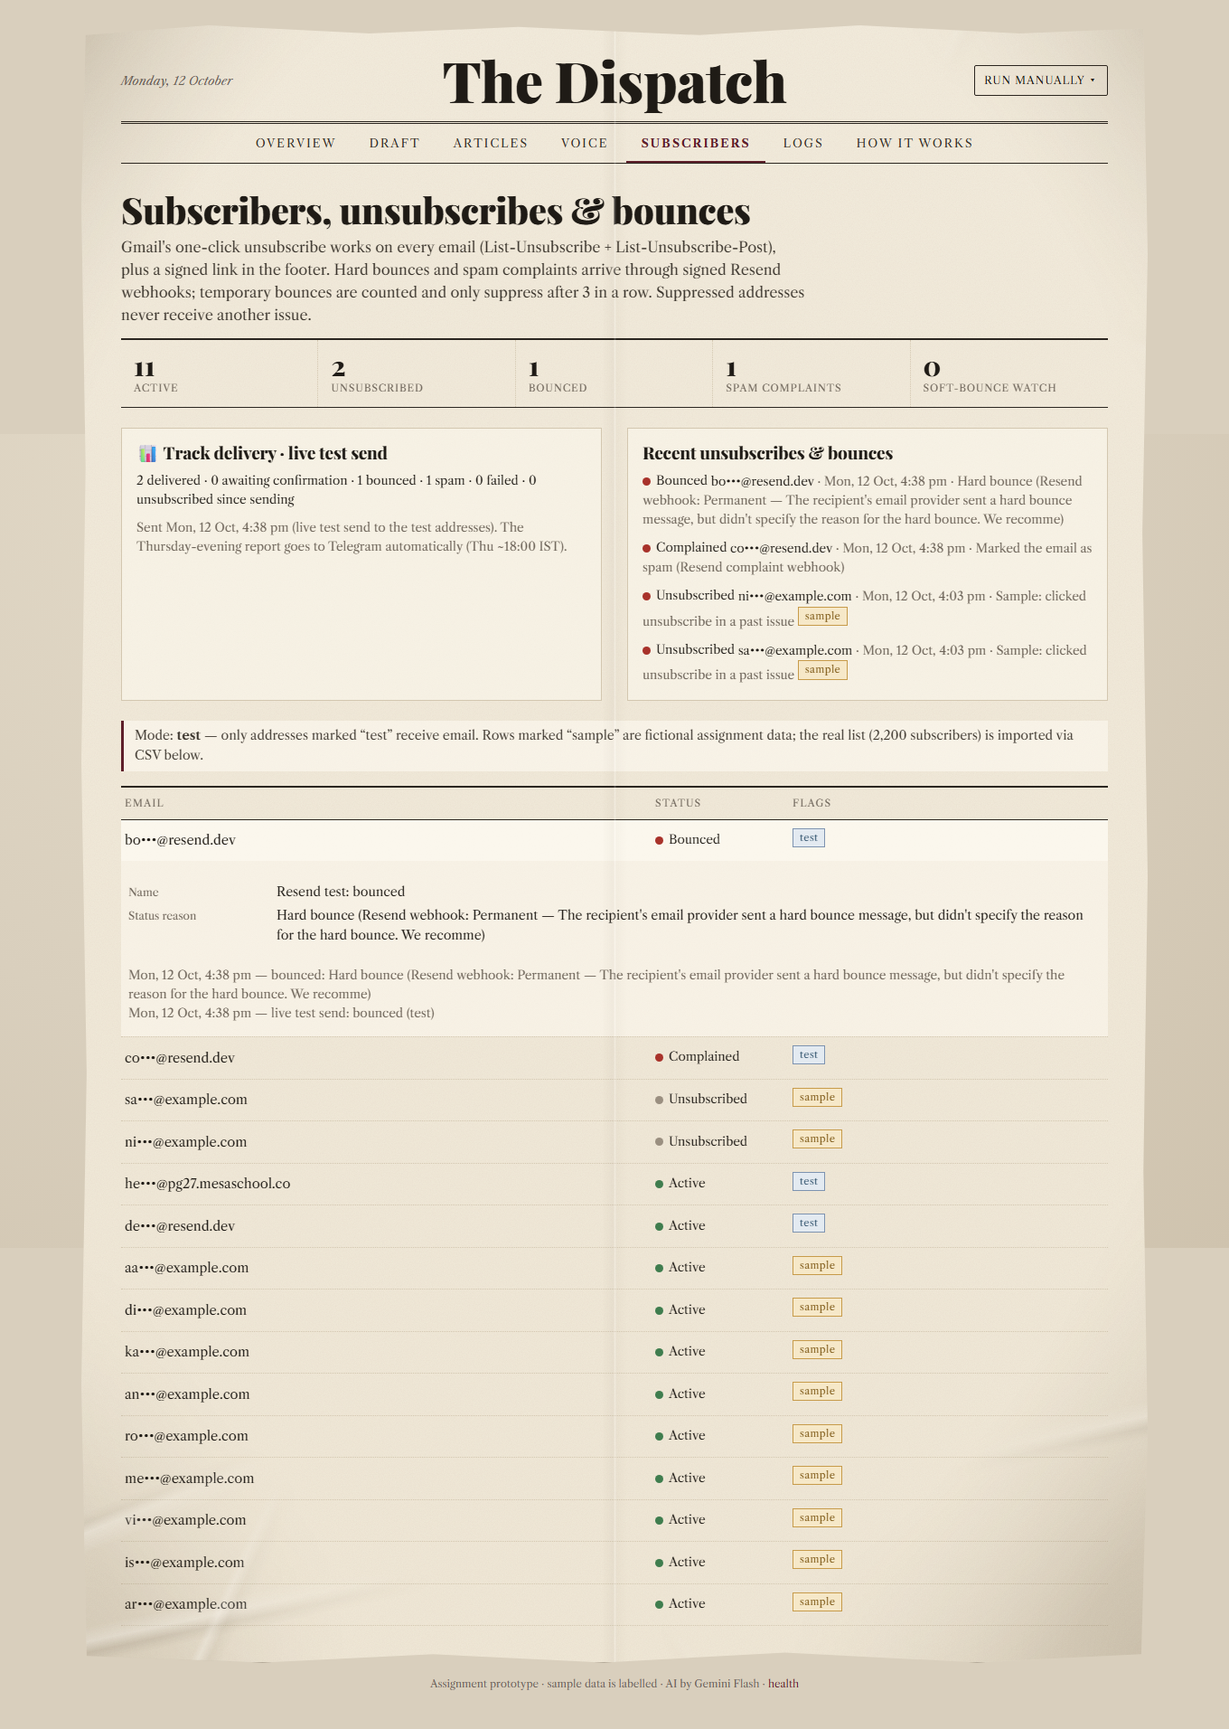
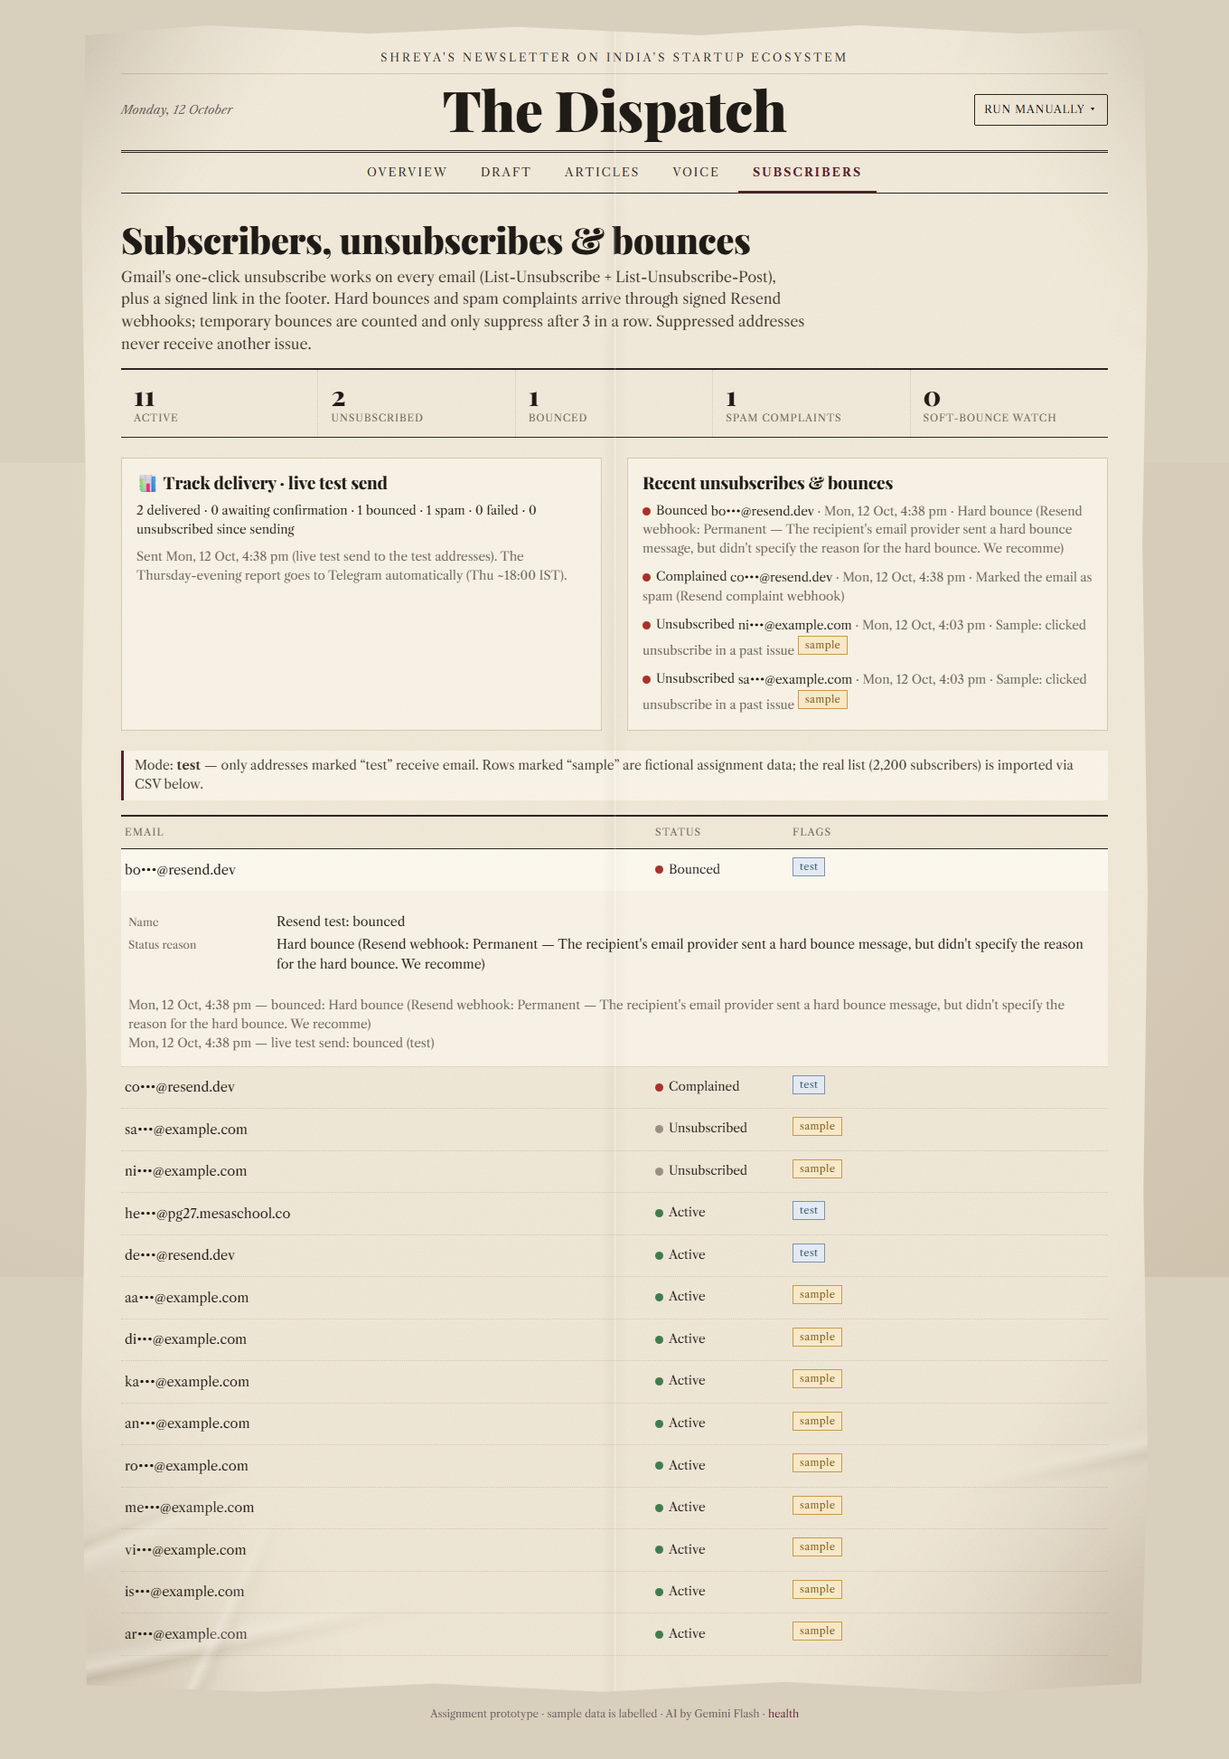
Add masthead strap; remove Logs and How it works pages; phone collage grid

Changed region(s): [[0.0926, 0.0309, 0.8956, 0.9566], [0.4632, 0.5246, 0.8647, 0.9566], [0.7412, 0.1851, 0.8647, 0.2469]]

diff --git a/app/page.tsx b/app/page.tsx
@@ -13,7 +13,7 @@ export const dynamic = "force-dynamic";
 type SP = { p?: string; msg?: string; err?: string; atopic?: string; astatus?: string; login?: string; run?: string };
 type D = Awaited<ReturnType<typeof loadDashboard>>;
 
-const PAGES = ["overview", "draft", "articles", "voice", "subscribers", "logs", "how"] as const;
+const PAGES = ["overview", "draft", "articles", "voice", "subscribers"] as const;
 
 export default async function Dashboard({ searchParams }: { searchParams: Promise<SP> }) {
   const sp = await searchParams;
@@ -27,12 +27,10 @@ export default async function Dashboard({ searchParams }: { searchParams: Promis
     { id: "articles", label: "Articles" },
     { id: "voice", label: "Voice" },
     { id: "subscribers", label: "Subscribers" },
-    { id: "logs", label: "Logs" },
-    { id: "how", label: "How it works" },
   ];
   const notice = (
     <>
-      {sp.msg && <div className={`flash${sp.err ? " err" : ""}`}>{sp.msg}{sp.run && <> · <a href={`/?p=logs#run-${sp.run}`}>see the run log</a></>}</div>}
+      {sp.msg && <div className={`flash${sp.err ? " err" : ""}`}>{sp.msg}</div>}
       {sp.login === "failed" && <div className="flash err">Wrong admin password.</div>}
       {sp.login === "required" && <div className="flash err">Log in from “Run manually” to make changes.</div>}
     </>
@@ -49,8 +47,6 @@ export default async function Dashboard({ searchParams }: { searchParams: Promis
             {page === "articles" && <ArticlesPage d={d} sp={sp} />}
             {page === "voice" && <VoicePage d={d} admin={admin} />}
             {page === "subscribers" && <SubscribersPage d={d} admin={admin} />}
-            {page === "logs" && <LogsPage d={d} sp={sp} />}
-            {page === "how" && <HowPage />}
           </Paper>
         </div>
       </article>
@@ -63,6 +59,7 @@ export default async function Dashboard({ searchParams }: { searchParams: Promis
 function Masthead({ d, admin, login }: { d: D; admin: boolean; login?: string }) {
   return (
     <header className="masthead">
+      <span className="strap">Shreya's newsletter on India's startup ecosystem</span>
       <span className="dateline">{formatIst(d.at, { weekday: "long", day: "numeric", month: "long", hour: undefined, minute: undefined })}</span>
       <a className="title" href="/" data-page="overview">The Dispatch</a>
       <div className="right"><RunMenu admin={admin} login={login} /></div>
@@ -508,57 +505,6 @@ function SubscribersPage({ d, admin }: { d: D; admin: boolean }) {
 }
 
 // ---------------------------------------------------------------------------
-// Page 6 — logs, Page 7 — how it works
-// ---------------------------------------------------------------------------
-function LogsPage({ d, sp }: { d: D; sp: SP }) {
-  const last = d.runs[0];
-  return (
-    <>
-      <section className="page-head"><div>
-        <h1>Workflow logs</h1>
-        <p className="lede">{last ? `Last run: ${cap(last.job.replace(/_/g, " "))} ${last.status === "failed" ? "failed" : last.status === "skipped" ? "skipped" : "succeeded"} ${ago(last.started_at, d.at)}` : "No runs yet"} · {d.failuresThisWeek} failure{d.failuresThisWeek === 1 ? "" : "s"} this week. Every cron, manual and simulated run is recorded.</p>
-      </div></section>
-      <div className="rows">
-        <div className="head g-runs"><span>Job</span><span>Time</span><span>Trigger</span><span>Result</span></div>
-        {d.runs.map((r) => (
-          <details className="row" key={r.id} id={`run-${r.id}`} open={sp.run === String(r.id)}>
-            <summary className="g-runs">
-              <Status dot={r.status === "failed" ? "red" : r.status === "skipped" ? "grey" : r.status ? "green" : "blue"} text={cap(r.job.replace(/_/g, " "))} />
-              <span className="muted small">{formatIst(r.started_at)}</span>
-              <span className="muted small">{r.trigger}{r.simulated_now ? " · sim" : ""}</span>
-              <span className="small cell-title">{r.summary ?? "Running…"}</span>
-            </summary>
-            <div className="detail">
-              <dl className="kv">
-                <dt>Result</dt><dd>{r.status ?? "running"} — {r.summary}</dd>
-                <dt>Started → finished</dt><dd>{formatIst(r.started_at, { second: "2-digit" })} → {formatIst(r.finished_at, { second: "2-digit" })}</dd>
-                {r.simulated_now && <><dt>Simulated time</dt><dd>{formatIst(r.simulated_now)} IST</dd></>}
-              </dl>
-              {r.details && <pre className="json">{JSON.stringify(r.details, null, 2)}</pre>}
-            </div>
-          </details>
-        ))}
-      </div>
-    </>
-  );
-}
-
-function HowPage() {
-  return (
-    <>
-      <section className="page-head"><div>
-        <h1>How it works</h1>
-        <p className="lede">Vercel Cron (UTC) → IST: ingest <span className="mono">{SCHEDULE.ingest.cron}</span> = {SCHEDULE.ingest.when} · draft <span className="mono">{SCHEDULE.draft.cron}</span> = {SCHEDULE.draft.when} · reminder <span className="mono">{SCHEDULE.reminder.cron}</span> = {SCHEDULE.reminder.when} · send <span className="mono">{SCHEDULE.send.cron}</span> = {SCHEDULE.send.when} · report <span className="mono">{SCHEDULE.report.cron}</span> = {SCHEDULE.report.when}.</p>
-      </div></section>
-      <section className="columns">
-        <div><h3 style={{ marginBottom: 10 }}>Components map</h3><img className="diagram" src="/diagrams/components-map.svg" alt="Components map: GitHub, Vercel, Cron, RSS/GNews, Neon, Gemini Flash, Telegram, Resend, subscribers, dashboard" /></div>
-        <div><h3 style={{ marginBottom: 10 }}>Weekly flowchart</h3><img className="diagram" src="/diagrams/workflow-flowchart.svg" alt="Weekly workflow flowchart with decision points" /></div>
-      </section>
-    </>
-  );
-}
-
-// ---------------------------------------------------------------------------
 function RunMenu({ admin, login }: { admin: boolean; login?: string }) {
   return (
     <details className="menu" open={login === "failed" || login === "required" ? true : undefined}>
@@ -633,14 +579,6 @@ function eventDot(e: string): Dot {
   if (["skipped", "rejected", "send_failed"].includes(e)) return "red";
   if (["approval_revoked", "reminder_sent", "insufficient_stories"].includes(e)) return "amber";
   return "blue";
-}
-
-function ago(t: string, at: Date) {
-  const m = Math.round((at.getTime() - new Date(t).getTime()) / 60000);
-  if (m < 1) return "just now";
-  if (m < 60) return `${m} min ago`;
-  if (m < 48 * 60) return `${Math.round(m / 60)} h ago`;
-  return `${Math.round(m / 1440)} days ago`;
 }
 
 /** Tiny markdown renderer for the voice guide (headings, lists, quotes, bold/italic). */

diff --git a/app/globals.css b/app/globals.css
@@ -81,7 +81,11 @@ img { max-width: 100%; }
 .sheet-inner { position: relative; z-index: 1; padding: 26px 44px 40px; }
 
 /* ---------------- Masthead + top navigation ---------------- */
-.masthead { display: grid; grid-template-columns: 1fr auto 1fr; align-items: center; gap: 16px; padding: 4px 0 14px; }
+.masthead { display: grid; grid-template-columns: 1fr auto 1fr; grid-template-areas: "strap strap strap" "date title menu"; align-items: center; gap: 4px 16px; padding: 0 0 14px; }
+.masthead .strap { grid-area: strap; text-align: center; font-size: 12.5px; letter-spacing: .22em; text-transform: uppercase; color: var(--ink-2); padding: 0 0 8px; margin-bottom: 4px; border-bottom: 1px solid var(--line); }
+.masthead .dateline { grid-area: date; }
+.masthead .title { grid-area: title; }
+.masthead .right { grid-area: menu; }
 .masthead .dateline { font-size: 13px; color: var(--muted); font-style: italic; }
 .masthead .title { font-family: var(--display); font-weight: 900; font-size: 62px; line-height: 1; letter-spacing: -0.01em; color: var(--ink); text-align: center; white-space: nowrap; }
 .masthead .title:hover { text-decoration: none; }
@@ -157,6 +161,7 @@ a.card:hover { text-decoration: none; background: rgba(255,252,244,.5); }
   transition: transform .55s cubic-bezier(.6,.05,.4,1), opacity .45s ease, left .55s cubic-bezier(.6,.05,.4,1), top .55s cubic-bezier(.6,.05,.4,1);
   clip-path: polygon(0 2%, 8% 0, 22% 1.5%, 40% 0, 63% 1.2%, 82% 0, 100% 1.5%, 99% 30%, 100% 62%, 98.8% 100%, 75% 98.6%, 50% 100%, 24% 98.8%, 0 100%, 1.2% 66%, 0 33%);
 }
+.tile { margin: 0; }
 .tile.small { width: 14.5%; }
 .tile img { width: 100%; height: 100%; object-fit: cover; display: block; filter: sepia(.25) contrast(1.05); }
 .tile .cap { position: absolute; left: 0; right: 0; bottom: 3px; text-align: center; font-family: var(--label); font-size: 10px; letter-spacing: .02em; text-transform: uppercase; color: var(--ink-2); white-space: nowrap; overflow: hidden; text-overflow: ellipsis; padding: 0 4px; }
@@ -310,7 +315,8 @@ iframe.preview { width: 100%; height: 720px; border: 1px solid var(--line); back
   .sheet { clip-path: none; }
   .sheet::after { display: none; }
   .sheet-inner { padding: 18px 16px 28px; }
-  .masthead { grid-template-columns: minmax(0, 1fr) auto; gap: 10px; }
+  .masthead { grid-template-columns: minmax(0, 1fr) auto; grid-template-areas: "strap strap" "title menu"; gap: 4px 10px; }
+  .masthead .strap { font-size: 10.5px; letter-spacing: .12em; }
   .masthead .dateline { display: none; }
   .masthead .title { text-align: left; font-size: 29px; }
   .menu > summary { padding: 6px 8px; font-size: 11px; }
@@ -324,9 +330,13 @@ iframe.preview { width: 100%; height: 720px; border: 1px solid var(--line); back
   .card { padding: 12px 10px; }
   .card:nth-child(3) { border-left: 0; padding-left: 0; }
   .card:nth-child(n+3) { border-top: 1px dotted var(--line); }
-  .collage { height: 380px; margin: 0 6px; }
-  .tile { width: 24%; }
-  .tile.small { width: 19%; }
+  /* phone: pictures in a simple grid — four, the button, four more */
+  .collage { height: auto; display: grid; grid-template-columns: repeat(4, minmax(0, 1fr)); gap: 10px 8px; padding: 6px 2px; }
+  .tile, .tile.small { position: relative; left: auto !important; top: auto !important; width: 100%; margin: 0; transform: rotate(var(--r, 0deg)); }
+  .tile:nth-of-type(n+5) { order: 2; }
+  .collage-center { position: relative; left: auto; top: auto; transform: none; order: 1; grid-column: 1 / -1; margin: 6px auto; min-width: 0; width: 100%; }
+  .scatter .tile { transform: rotate(var(--r, 0deg)) scale(.8); }
+  .scatter .collage-center { transform: scale(1.05); }
   .draft-grid { grid-template-columns: 1fr; }
   .story { border-right: 0 !important; }
   .story.lead { grid-template-columns: 1fr; }

diff --git a/scripts/e2e.ts b/scripts/e2e.ts
@@ -39,15 +39,14 @@ async function main() {
     return `db ok, ${Object.keys(j.env).length} env vars present, model ${j.geminiModel}, email mode ${j.emailMode}`;
   });
 
-  for (const path of ["/", "/?p=draft", "/?p=articles", "/?p=voice", "/?p=subscribers", "/?p=logs", "/?p=how", "/unsubscribe",
-    "/diagrams/components-map.svg", "/diagrams/workflow-flowchart.svg", "/topics/fintech.jpg"]) {
+  for (const path of ["/", "/?p=draft", "/?p=articles", "/?p=voice", "/?p=subscribers", "/unsubscribe", "/topics/fintech.jpg"]) {
     await check(`GET ${path} → 200`, async () => expectStatus(await fetch(`${BASE}${path}`), 200));
   }
 
   await check("front page: top navigation, workflow status, unsubscribes card, draft link, sample-data note", async () => {
     const html = (await (await fetch(`${BASE}/`)).text()).replace(/&#x27;/g, "'").replace(/&amp;/g, "&");
-    for (const s of ["Assignment prototype · sample data is labelled", "News collection", "Editorial review", "Unsubscribes & bounces", "View this week's draft",
-      "Draft", "Articles", "Voice", "Subscribers", "Logs", "How it works", "Track delivery"]) {
+    for (const s of ["Shreya's newsletter on India's startup ecosystem", "Assignment prototype · sample data is labelled", "News collection", "Editorial review", "Unsubscribes & bounces", "View this week's draft",
+      "Draft", "Articles", "Voice", "Subscribers", "Track delivery"]) {
       if (!html.includes(s)) throw new Error(`missing “${s}”`);
     }
   });

diff --git a/app/api/admin/action/route.ts b/app/api/admin/action/route.ts
@@ -107,7 +107,7 @@ function reply(req: Request, json: boolean, ok: boolean, message: string, anchor
   url.searchParams.set("msg", message.slice(0, 400));
   if (!ok) url.searchParams.set("err", "1");
   if (run) url.searchParams.set("run", String(run.runId));
-  const page = ({ draft: "draft", approval: "draft", voice: "voice", subscribers: "subscribers", logs: "logs" } as Record<string, string>)[anchor];
+  const page = ({ draft: "draft", approval: "draft", voice: "voice", subscribers: "subscribers" } as Record<string, string>)[anchor];
   if (page) url.searchParams.set("p", page);
   return NextResponse.redirect(url, 303);
 }

diff --git a/scripts/screenshots.ts b/scripts/screenshots.ts
@@ -7,7 +7,7 @@ loadEnv();
 const BASE = (process.argv[2] || process.env.APP_BASE_URL || "http://localhost:3000").replace(/\/$/, "");
 const OUT = process.argv[3] || "docs/screenshots";
 const PAGES = [
-  ["02-draft", "draft"], ["03-articles", "articles"], ["04-voice", "voice"], ["05-subscribers", "subscribers"], ["06-logs", "logs"], ["07-how-it-works", "how"],
+  ["02-draft", "draft"], ["03-articles", "articles"], ["04-voice", "voice"], ["05-subscribers", "subscribers"],
 ] as const;
 
 async function main() {

diff --git a/RUBRIC.md b/RUBRIC.md
@@ -29,9 +29,9 @@ Evidence lives in [`docs/evidence/`](docs/evidence/): `test-results.txt` (full V
 
 | ID | Requirement | Pass criteria | Status | Implementation | Evidence |
 |---|---|---|---|---|---|
-| A1 | Public Vercel URL | Production URL loads without login for read-only pages | ✅ | https://the-dispatch-murex.vercel.app (Vercel project `the-dispatch`, region `sin1`) | `e2e.txt`: all 7 pages, unsubscribe page, diagrams and images → 200; admin writes → 401 without login |
+| A1 | Public Vercel URL | Production URL loads without login for read-only pages | ✅ | https://the-dispatch-murex.vercel.app (Vercel project `the-dispatch`, region `sin1`) | `e2e.txt`: all 5 pages, unsubscribe page and images → 200; admin writes → 401 without login |
 | A2 | GitHub repository | Public repo with code, README, docs; no secrets in history | ✅ | https://github.com/helenamaria-byte/shreya | `gitleaks.txt` (full history: no leaks; none of the 12 credential values in any commit) |
-| A3 | Components Map | Mermaid source + rendered diagram showing every tool, its role, and data flow | ✅ | `docs/components-map.mmd` → `.svg`; in README and on the dashboard's "How it works" page | `screenshots/07-how-it-works.png` |
+| A3 | Components Map | Mermaid source + rendered diagram showing every tool, its role, and data flow | ✅ | `docs/components-map.mmd` → `docs/components-map.svg`, embedded in the README | rendered by `scripts/render-diagrams.ts` |
 | A4 | Live external data | Real articles from live feeds present at submission time | ✅ | `lib/ingest.ts`, `lib/sources.ts` | `cron-triggers.txt` (production cron run: 45 new articles, 24/25 sources); 432 articles for 2026-W42 on the front page |
 | A5 | Gemini Flash only | All in-app AI uses a Gemini Flash model; no Claude/other API in app code | ✅ | `lib/gemini.ts` (refuses non-Flash model names), `gemini-3.8-flash`; topic art made once with `gemini-3.1-flash-image` | `gemini-only-grep.txt` |
 
@@ -98,10 +98,10 @@ The original "collapsible sections" criterion was the author's own suggestion, n
 
 | ID | Requirement | Pts | Pass criteria | Status | Implementation | Evidence |
 |---|---|---|---|---|---|---|
-| H1 | Every part of the pipeline visible | 2 | Front page, draft, articles, voice, subscribers, logs, how it works — all working | ✅ | `app/page.tsx`, `lib/dashboard.ts` | `screenshots/01`–`07`; `e2e.txt` (every page 200, all tabs present) |
+| H1 | Every part of the pipeline visible | 2 | Front page, draft, articles, voice, subscribers — all working (run logs kept in Neon `workflow_runs`; diagrams in the README) | ✅ | `app/page.tsx`, `lib/dashboard.ts` | `screenshots/01`–`05`; `e2e.txt` (every page 200, all tabs present) |
 | H2 | Big picture first | 1 | Front page shows the workflow, status headline, what to do next, key numbers and this week's edition at a glance | ✅ | one headline + next action, 5-step status line, 4 numbers, rubber stamp, topic collage with one button | `screenshots/01-front-page.png` |
 | H3 | Details on click / page turning | 1 | "View this week's draft" moves the collage aside and folds to the draft; top navigation, ← → and swipe turn pages; rows expand to detail | ✅ | `app/paper.tsx` (fold animation, keyboard, swipe, reduced-motion fallback) | `screenshots/01b-pictures-move-aside.png`, `01c-paper-folding.png`, `02-draft.png` |
-| H4 | Clean newspaper design, works on mobile | 1 | Two newsprint fonts, top navigation, creases only at the edges, plain-word statuses with dots, one main button per page, admin actions in one menu, no horizontal scroll on a phone | ✅ | `app/globals.css`, `app/layout.tsx` (Playfair Display, Libre Caslon; IBM Plex Mono only for code/JSON) | `screenshots/11-phone-front-page.png`, `12-phone-draft.png` (overflow 0 px on all 7 pages) |
+| H4 | Clean newspaper design, works on mobile | 1 | Two newsprint fonts, top navigation, creases only at the edges, plain-word statuses with dots, one main button per page, admin actions in one menu, no horizontal scroll on a phone | ✅ | `app/globals.css`, `app/layout.tsx` (Playfair Display, Libre Caslon; IBM Plex Mono only for code/JSON) | `screenshots/11-phone-front-page.png`, `12-phone-draft.png` (overflow 0 px on every page) |
 | H5 | README + setup + `.env.example` | 2 | Fresh setup possible from README alone | ✅ | README (brief trace, 10 setup steps, 5-minute demo, limitations, going live), `.env.example` | — |
 | H6 | Workflow flowchart | 1 | Mermaid source + render with the decision points | ✅ | `docs/workflow-flowchart.mmd` → `.svg` | diamonds: in last four issues? · duplicate this week? · enough stories? · final draft confirmed? · still pending at Wed 10 PM? · approval before the Thursday send? · duplicate-send guard |
 | H7 | Screenshots / demo | 1 | Front page, each page, transition frames, phone view | ✅ | `scripts/screenshots.ts` against production | `docs/screenshots/01`–`13` |

diff --git a/README.md b/README.md
@@ -32,7 +32,7 @@ A weekly newsletter about the Indian startup and tech ecosystem, run almost hand
 
 | Piece | Role |
 |---|---|
-| **Vercel** (Next.js 16, region `sin1`) | Newspaper-style dashboard, API routes, cron targets |
+| **Vercel** (Next.js 16, region `sin1`) | Newspaper-style dashboard (5 pages), API routes, cron targets |
 | **Vercel Cron** | Mon–Wed ingest · Wed draft · Wed 10 PM reminder · Thu send · Thu 6 PM delivery report (UTC expressions mapped to IST; each job re-checks the IST time and the issue's state) |
 | **RSS + Google News RSS + GNews API** | Live Indian startup/tech news |
 | **Neon Postgres** (Singapore) | Articles, dedup, past-4-issues check, drafts, per-story approval, subscribers, deliveries, run logs |
@@ -73,10 +73,10 @@ Details: [docs/SCHEMA.md](docs/SCHEMA.md).
 
 ## The dashboard: a newspaper you can page through
 
-- **Top navigation:** Overview · Draft · Articles · Voice · Subscribers · Logs · How it works, right under the masthead.
+- **Masthead:** a strip reading "Shreya's newsletter on India's startup ecosystem" above **The Dispatch**, then the top navigation: Overview · Draft · Articles · Voice · Subscribers.
 - **Front page, kept deliberately simple:** one status headline with the next action, a five-step status line (Collect → Select → Review → Send → Track delivery), four numbers (articles, stories approved, unsubscribes & bounces, review time vs ~4 h by hand), a rubber stamp when approved or sent, and a collage with one picture per story (8–10) around one button: **View this week's draft**.
 - **Turning pages:** the paper **folds** to the next page. From the front page the collage pictures move aside first. Arrow keys and swipes work too, and reduced-motion users get no animation.
-- **Inside pages:** the draft (illustrated story cards with keep/edit/swap/reject, Gemini's reasons, approval history, topic mix vs the last four issues, and the email as subscribers will see it), articles (why each was kept or dropped, source health), editorial voice (Learn my voice, edit, version history), subscribers (unsubscribes, bounces, delivery tracking, CSV import), logs, and how it works.
+- **Inside pages:** the draft (illustrated story cards with keep/edit/swap/reject, Gemini's reasons, and — folded away — approval history, topic mix vs the last four issues, reserves and the email preview), articles (why each was kept or dropped, source health), editorial voice (Learn my voice, edit, version history), and subscribers (unsubscribes, bounces, delivery tracking, CSV import). Every job run is still logged in Neon (`workflow_runs`); the components map and flowchart live in this README.
 - **Two fonts (Playfair Display headlines, Libre Caslon text), paper creased only at the edges.** Topic illustrations are newsprint etchings generated once with Gemini Flash image (`scripts/generate-topic-art.ts`).
 
 ## Setup (≤10 steps)
